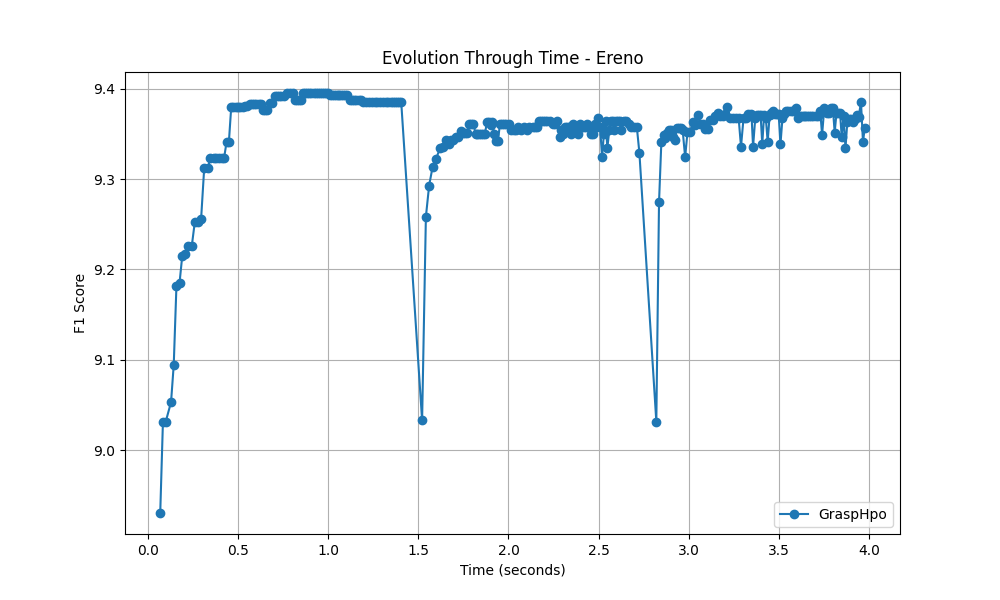
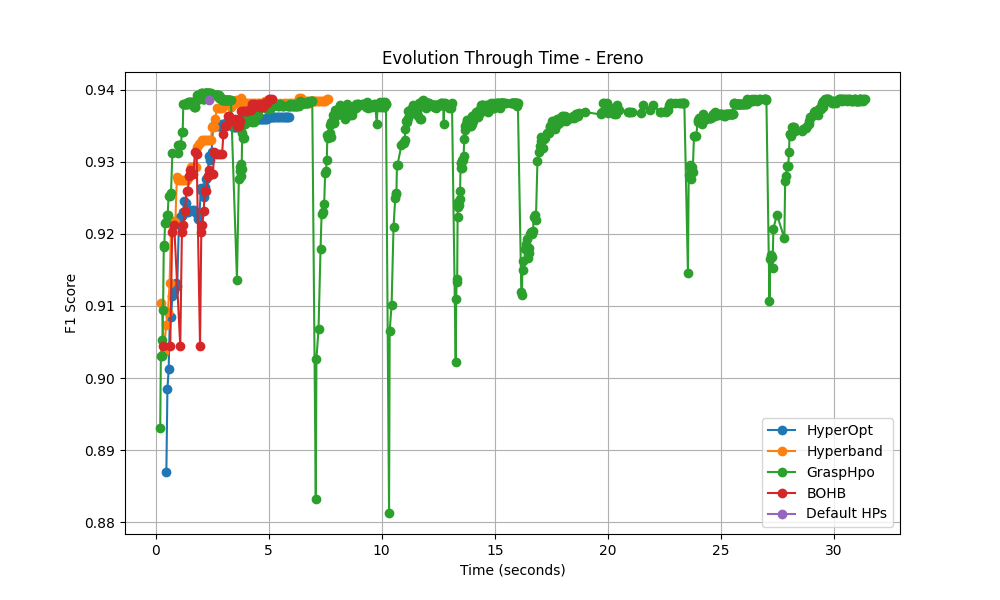
GRASP Evolution through time for each xgboost round

diff --git a/src/hpo/grasp/phase2grasp.py b/src/hpo/grasp/phase2grasp.py
@@ -37,8 +37,6 @@ class LocalSearch:
         f1_scores_evolution = []
         time_evolution = []
 
-        tmp_score = 0
-
         while not intermed_best_sols.empty():
             if time.time() - phase_start_time > self.timelimit:
                 break
@@ -46,26 +44,23 @@ class LocalSearch:
             cur = intermed_best_sols.get()
 
             if verbose: print('LS iteration {}: \nBest solution after phase 1: {}\nCorresponding score: {}'.format(iter, cur[2], cur[0]))
-            tmp_score, tmp_sol = self.hill_climb(cur[2], x_train, x_test, y_train, y_test, phase_start_time)
+            tmp_score, tmp_sol = self.hill_climb(cur[2], x_train, x_test, y_train, y_test, phase_start_time, start_time, f1_scores_evolution, time_evolution)
             if verbose: print('LS iteration {}: \nBest solution after phase 2: {}\nCorresponding score: {}\n'.format(iter, tmp_sol, tmp_score))
 
             if tmp_score > local_best_score:
-                f1_scores_evolution.append(tmp_score)
-                time_evolution.append(time.time() - start_time)
                 local_best_score = tmp_score
                 local_best_sol = tmp_sol
                 if verbose: print('After LS iteration {}: LS found neighbor solution w/ higher f-1 mean than phase 1'.format(iter, local_best_sol, local_best_score))
             iter += 1
 
-        time_evolution.append(time.time() - start_time)
-        f1_scores_evolution.append(tmp_score)
-
         return local_best_sol, local_best_score, f1_scores_evolution, time_evolution
 
-    def hill_climb(self, cur_sol: dict, x_train, x_test, y_train, y_test, phase_start_time):
-
+    def hill_climb(self, cur_sol: dict, x_train, x_test, y_train, y_test, phase_start_time, start_time, f1_scores_evolution, time_evolution):
         best_sol = cur_sol
-        best_score = self.evaluate(cur_sol, x_train, x_test, y_train, y_test, phase_start_time)
+        f1_scores_per_round, round_times = self.evaluate(cur_sol, x_train, x_test, y_train, y_test, start_time)
+        f1_scores_evolution.extend(f1_scores_per_round)
+        time_evolution.extend(round_times)
+        best_score = max(f1_scores_per_round)
 
         for _ in range(self.max_iter):
 
@@ -73,8 +68,10 @@ class LocalSearch:
                 break
 
             neighbor_sol = self.generate_neighbor(cur_sol)
-            neighbor_score = self.evaluate(neighbor_sol, x_train, x_test, y_train, y_test, phase_start_time)
-
+            neighbor_scores, neighbor_times = self.evaluate(neighbor_sol, x_train, x_test, y_train, y_test, start_time)
+            f1_scores_evolution.extend(neighbor_scores)
+            time_evolution.extend(neighbor_times)
+            neighbor_score = max(neighbor_scores)
             if neighbor_score > best_score:
                 best_sol = neighbor_sol
                 best_score = neighbor_score

diff --git a/src/hpo/grasp/grasp_hpo.py b/src/hpo/grasp/grasp_hpo.py
@@ -24,12 +24,12 @@ class GraspHpo(HPOStrategy):
     def hyperparameter_optimization(self, x_train, x_test, y_train, y_test, search_space):
         start_time = time.time()
         best_intermediate_combinations, f1_scores_evolution, time_evolution = self.phase1.building_phase(x_train, x_test, y_train, y_test, search_space, start_time)
-        # local_search_start_time = time.time()
-        # local_best_sol, local_best_score, f1_scores_evolution2, time_evolution2 = self.phase2.local_search(best_intermediate_combinations, x_train, x_test, y_train, y_test, search_space, start_time, local_search_start_time)
-        # f1_scores_evolution.extend(f1_scores_evolution2)
-        # time_evolution.extend(time_evolution2)
+        local_search_start_time = time.time()
+        local_best_sol, local_best_score, f1_scores_evolution2, time_evolution2 = self.phase2.local_search(best_intermediate_combinations, x_train, x_test, y_train, y_test, search_space, start_time, local_search_start_time)
+        f1_scores_evolution.extend(f1_scores_evolution2)
+        time_evolution.extend(time_evolution2)
 
-        return best_intermediate_combinations.get(), f1_scores_evolution[0], (f1_scores_evolution, time_evolution)
+        return local_best_sol, local_best_score, (f1_scores_evolution, time_evolution)
 
     @staticmethod
     def evaluate_solution(params, x_train, x_test, y_train, y_test, start_time):
@@ -81,4 +81,4 @@ class GraspHpo(HPOStrategy):
 
         f1_scores_per_round = evals_result['eval']['f1_score']
 
-        return [score * 10 for score in f1_scores_per_round], round_times
+        return f1_scores_per_round, round_times

diff --git a/src/main.py b/src/main.py
@@ -39,9 +39,9 @@ class Main:
     def main():
         dataset_names = ['Breast Cancer', 'Digits', 'Iris', 'Wine', 'Ereno']
         # dataset_names = ['Breast Cancer', 'Digits', 'Iris', 'Wine']
-        # dataset_names = ['Wine']
-        # strategies = ['HyperOpt', 'Hyperband', 'GraspHpo', 'BOHB', 'Default HPs']
-        strategies = ['GraspHpo']
+        # dataset_names = ['Ereno']
+        strategies = ['HyperOpt', 'Hyperband', 'GraspHpo', 'BOHB', 'Default HPs']
+        # strategies = ['GraspHpo']
         # strategies = ['BOHB']
         # strategies = ['Default HPs']
 
@@ -52,6 +52,7 @@ class Main:
             dataset = DatasetFactory.load_dataset(dataset_name)
 
             for strategy in strategies:
+                print('Dataset: ', dataset_name, '\nStrategy: ', strategy)
                 f1_score, evaluation_time, evolution_through_time = Main.evaluate_hpo(strategy, dataset)
                 data_final_metrics.append({
                     "input": dataset_name,
